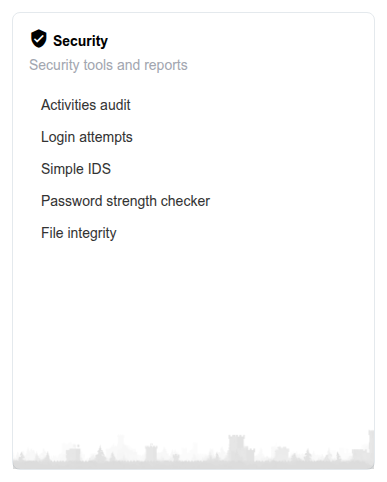
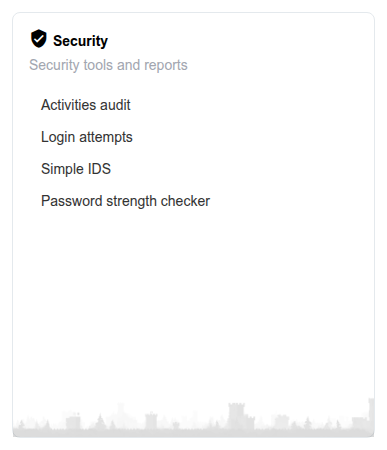
Documentation: Revert 2.1-only changes now targeting Chamilo 3.0
The Reporting-to-Analytics rename and the File Integrity (security)
feature were both planned for what was going to be Chamilo 2.1. That
work is now targeted at Chamilo 3.0 instead, so this branch reverts
both from the 2.x documentation:

- Renamed the "Analytics" chapter back to "Reporting", matching the
  actual 2.x dashboard label (admin-guide/analytics -> admin-guide/reporting,
  plus SUMMARY.md and cross-references).
- Removed the File Integrity page and all references to it from the
  Security chapter, the security guide, and SUMMARY.md, since it will
  never ship in a 2.x release. Cropped the Security block screenshot
  down to its actual four 2.x tools.

Changed region(s): [[0.093, 0.1867, 0.5581, 0.4978], [0.062, 0.0622, 0.4961, 0.1556]]

diff --git a/admin-guide/security/README.md b/admin-guide/security/README.md
@@ -2,9 +2,7 @@
 
 The **Security** block on the administration dashboard groups the platform's built-in security monitoring and auditing tools. It is separate from [Security Settings](../platform-settings/security-settings.md), which configures security *policy* (password rules, CAPTCHA, HTTP security headers, and so on) — this block gives you the *reports and tools* that watch the platform for suspicious activity and unwanted changes.
 
-![The Security block on the administration dashboard, listing Activities audit, Login attempts, Simple IDS, Password strength checker, and File integrity](/.gitbook/assets/admin-security-block.png)
-
-The block was introduced in Chamilo 2.0 with four tools and extended in Chamilo 2.1 with a fifth, **File integrity**.
+![The Security block on the administration dashboard, listing Activities audit, Login attempts, Simple IDS, and Password strength checker](/.gitbook/assets/admin-security-block.png)
 
 ## Accessing the Security Block
 
@@ -16,8 +14,7 @@ From the administration panel, the **Security** block appears alongside the othe
 * **[Login Attempts](login-attempts.md)** — Review failed and successful login attempts, with charts and a searchable log
 * **[Simple IDS](simple-ids.md)** — See requests flagged by Chamilo's built-in, lightweight intrusion detection system
 * **[Password Strength Checker](password-strength-checker.md)** — Scan active users for passwords that match a list of commonly used passwords
-* **[File Integrity](file-integrity.md)** *(new in Chamilo 2.1)* — Detect unexpected additions, modifications, deletions, or permission changes in the installed files
 
 ## Who Can Access It
 
-All five tools require **Portal Administrator** access. File integrity's scan, pause, and re-baseline actions additionally require **Global Administrator** access, and pausing alerts or establishing a new baseline requires re-entering your own password — see [File Integrity](file-integrity.md#actions) for details.
+All four tools require **Portal Administrator** access.

diff --git a/admin-guide/README.md b/admin-guide/README.md
@@ -11,11 +11,11 @@ As a Chamilo administrator, you manage:
 * **Courses and sessions** — Oversee course creation, manage the course catalog, and configure training sessions
 * **Platform** — Languages, portal news, the global agenda, and the Pages CMS tool
 * **Platform settings** — Configure portal behavior, security, performance, and feature availability
-* **Analytics** — Platform statistics, learning analytics, and corporate/HR reporting
+* **Reporting** — Platform statistics, learning analytics, and corporate/HR reporting
 * **Skills** — Define competency badges and link them to gradebook results
 * **System** — Server maintenance tools, self-update, storage inspection, and branding
 * **Rooms** — Manage physical sites and bookable training rooms
-* **Security** — Monitor login attempts, review flagged intrusion attempts, check password strength, and verify file integrity
+* **Security** — Monitor login attempts, review flagged intrusion attempts, and check password strength
 * **Plugins** — Install, configure, and manage platform extensions
 * **Authentication** — Set up external login systems (OAuth2, LDAP, CAS, SCIM)
 * **Integrations** — Connect Chamilo to video conferencing, LTI tools, AI providers, and more
@@ -30,7 +30,7 @@ As a Chamilo administrator, you manage:
 5. **Sessions** — Organizing time-bound training cohorts
 6. **Platform** — Languages, portal news, the global agenda, and the Pages CMS tool
 7. **Platform Settings** — Configuring every aspect of the platform
-8. **Analytics** — Statistics, learning analytics, and corporate/HR reporting
+8. **Reporting** — Statistics, learning analytics, and corporate/HR reporting
 9. **Skills** — Competency badges and gradebook-driven awards
 10. **System** — Server tools, self-update, storage inspection, and branding
 11. **Rooms** — Branches and bookable training rooms

diff --git a/admin-guide/appendix/security-guide.md b/admin-guide/appendix/security-guide.md
@@ -2,7 +2,7 @@
 
 This guide covers security best practices for running a Chamilo 2.0 platform in production. Security is a shared responsibility between the platform software, your server configuration, and ongoing operational practices.
 
-For the built-in monitoring and auditing tools referenced throughout this guide (login attempt logs, intrusion detection, password strength scans, and file integrity checks), see the [Security](../security/README.md) chapter.
+For the built-in monitoring and auditing tools referenced throughout this guide (login attempt logs, intrusion detection, and password strength scans), see the [Security](../security/README.md) chapter.
 
 ## Keep Chamilo Updated
 
@@ -153,7 +153,7 @@ See [Backups](../maintenance/backups.md) for detailed instructions.
 * Set up server monitoring (CPU, memory, disk) to detect resource exhaustion.
 * Configure alerts for repeated authentication failures.
 * Periodically review user accounts for unauthorized or dormant accounts.
-* Schedule [File Integrity](../security/file-integrity.md) checks (Chamilo 2.1+) in cron to be notified when installed files change unexpectedly, and run the [Password Strength Checker](../security/password-strength-checker.md) periodically, especially after bulk user imports.
+* Run the [Password Strength Checker](../security/password-strength-checker.md) periodically, especially after bulk user imports.
 
 ## Checklist
 
@@ -171,6 +171,5 @@ Use this checklist when deploying or auditing a Chamilo installation:
 - [ ] Session cookie flags set (secure, httponly, samesite)
 - [ ] Database user has minimal privileges
 - [ ] Automated backups scheduled and tested
-- [ ] File integrity baseline established and scan scheduled in cron (Chamilo 2.1+)
 - [ ] Log monitoring in place
 - [ ] Chamilo version is current

diff --git a/admin-guide/reporting/corporate-reports.md b/admin-guide/reporting/corporate-reports.md
@@ -1,0 +1,19 @@
+# Corporate Reports
+
+This page covers four related dashboard entries aimed at organizational reporting rather than day-to-day teaching: quarterly summaries, teacher workload, HR-oriented course reporting, and bulk document exports.
+
+## Quarterly Report
+
+**Reporting > Quarterly report** presents a set of summary cards for a given quarter: users registered and connected, courses that exist versus courses actually used, hours of training delivered, certificates generated, sessions by duration, and total disk usage (disk usage only appears on the main portal in a multi-URL setup). Each card loads independently, so the page stays responsive even on a platform with a lot of history.
+
+## Teachers Time Report
+
+**Reporting > Teachers time report** lets you filter by course, session, teacher, and date range to see how much time each teacher has spent. It's meant to track teaching workload and hours — filter it down to a single course or session, or leave it unfiltered for a platform-wide view.
+
+## Corporate Report
+
+**Reporting > Corporate report** is built specifically for HR audiences — it's the one report in this chapter also available to the **Human Resources Manager** and **Student Boss** roles, not just administrators. It lists, per course and per user: e-mail address, hours spent, whether a certificate was generated, completed learning paths, and course progress. It can be scoped to a single session or left platform-wide.
+
+## Special Exports
+
+**Reporting > Special exports** is a bulk-export tool, not a report: it zips up course documents platform-wide, or for a selected subset of courses (including their session-specific documents). This is a heavy operation on a platform with a lot of course content — it's best run outside peak hours.

diff --git a/admin-guide/reporting/README.md b/admin-guide/reporting/README.md
@@ -1,0 +1,21 @@
+# Reporting
+
+The **Reporting** block on the administration dashboard groups platform-wide statistics, learning analytics, corporate/HR reporting, and bulk export tools. This is a different tool from [Tracking Settings](../platform-settings/tracking-settings.md), the separate settings category that controls what gets recorded rather than the reports themselves.
+
+![The Reporting block on the administration dashboard, listing Global statistics, Reports catalog, Learning analytics, Quarterly report, Teachers time report, Corporate report, Special exports, and Tickets](/.gitbook/assets/admin-reporting-block.png)
+
+## Accessing Reporting
+
+From the administration panel, the **Reporting** block appears alongside the other dashboard blocks. Click any of its links to open the corresponding report.
+
+## What's in the Block
+
+* **[Global Statistics](global-statistics.md)** — Platform-wide statistics: courses, users, logins, sessions, and disk usage
+* **[Reports Catalog](reports-catalog.md)** — Browse every registered report, who can access it, and why
+* **[Learning Analytics](learning-analytics.md)** — The classic tracking dashboard: user, course, and session drill-downs with time-spent and score averages
+* **[Corporate Reports](corporate-reports.md)** — Quarterly summaries, teacher time tracking, and HR-oriented course/user reporting
+* **[Tickets](tickets.md)** — Jump straight to the support ticket list
+
+## Who Can Access It
+
+Most of these reports require **Portal Administrator** access. The Corporate Report is the exception — it is also open to **Human Resources Manager** and **Student Boss** roles, since it's built for that audience specifically.

diff --git a/SUMMARY.md b/SUMMARY.md
@@ -125,12 +125,12 @@
     * [User Profile](admin-guide/platform-settings/profile-settings.md)
     * [Web Services](admin-guide/platform-settings/webservice-settings.md)
     * [Workflows](admin-guide/platform-settings/workflows-settings.md)
-  * [Analytics](admin-guide/analytics/README.md)
-    * [Global Statistics](admin-guide/analytics/global-statistics.md)
-    * [Reports Catalog](admin-guide/analytics/reports-catalog.md)
-    * [Learning Analytics](admin-guide/analytics/learning-analytics.md)
-    * [Corporate Reports](admin-guide/analytics/corporate-reports.md)
-    * [Tickets](admin-guide/analytics/tickets.md)
+  * [Reporting](admin-guide/reporting/README.md)
+    * [Global Statistics](admin-guide/reporting/global-statistics.md)
+    * [Reports Catalog](admin-guide/reporting/reports-catalog.md)
+    * [Learning Analytics](admin-guide/reporting/learning-analytics.md)
+    * [Corporate Reports](admin-guide/reporting/corporate-reports.md)
+    * [Tickets](admin-guide/reporting/tickets.md)
   * [Skills](admin-guide/skills/README.md)
     * [Managing Skills](admin-guide/skills/managing-skills.md)
     * [Skills Wheel](admin-guide/skills/skills-wheel.md)
@@ -150,7 +150,6 @@
     * [Login Attempts](admin-guide/security/login-attempts.md)
     * [Simple IDS](admin-guide/security/simple-ids.md)
     * [Password Strength Checker](admin-guide/security/password-strength-checker.md)
-    * [File Integrity](admin-guide/security/file-integrity.md)
   * [Plugins](admin-guide/plugins/README.md)
     * [Managing Plugins](admin-guide/plugins/managing-plugins.md)
   * [Health Check](admin-guide/health-check.md)

diff --git a/admin-guide/getting-started/admin-interface-overview.md b/admin-guide/getting-started/admin-interface-overview.md
@@ -37,9 +37,9 @@ See the [Sessions](../sessions/README.md) chapter for details.
 
 * **Configuration settings**, **Languages**, **Portal news**, **Global agenda**, **Pages**, **Extra fields**, **Mail templates**, **Contact form categories**, and more — see the [Platform](../platform/README.md) chapter for details. The "Configuration settings" link is the entry point to the separate [Platform Settings](../platform-settings/README.md) chapter.
 
-### Analytics
+### Reporting
 
-* **Global statistics**, **Reports catalog**, **Learning analytics**, **Quarterly report**, **Teachers time report**, **Corporate report**, **Special exports**, **Tickets** — Platform statistics and reporting; see the [Analytics](../analytics/README.md) chapter for details
+* **Global statistics**, **Reports catalog**, **Learning analytics**, **Quarterly report**, **Teachers time report**, **Corporate report**, **Special exports**, **Tickets** — Platform statistics and reporting; see the [Reporting](../reporting/README.md) chapter for details
 
 ### Skills
 
@@ -55,7 +55,7 @@ See the [Sessions](../sessions/README.md) chapter for details.
 
 ### Security
 
-* **Activities audit**, **Login attempts**, **Simple IDS**, **Password strength checker**, **File integrity** — Security monitoring and auditing tools; see the [Security](../security/README.md) chapter for details
+* **Activities audit**, **Login attempts**, **Simple IDS**, **Password strength checker** — Security monitoring and auditing tools; see the [Security](../security/README.md) chapter for details
 
 ### Plugins
 

diff --git a/admin-guide/platform-settings/security-settings.md b/admin-guide/platform-settings/security-settings.md
@@ -2,7 +2,7 @@
 
 Login protection, password policy, content security headers, two-factor authentication, and the lightweight intrusion detection system.
 
-This page covers security *policy*. For the monitoring tools that watch the platform using this policy (login attempt logs, intrusion detection events, password strength scans, and file integrity checks), see [Security](../security/README.md).
+This page covers security *policy*. For the monitoring tools that watch the platform using this policy (login attempt logs, intrusion detection events, and password strength scans), see [Security](../security/README.md).
 
 Access these settings under **Administration > Configuration settings > Security**. This category contains **31 settings**, listed below with the title and comment shipped in the platform's settings fixtures (`SettingsCurrentFixtures.php`).
 

diff --git a/admin-guide/reporting/learning-analytics.md b/admin-guide/reporting/learning-analytics.md
@@ -1,10 +1,10 @@
 # Learning Analytics
 
-Learning Analytics is Chamilo's classic tracking dashboard (historically known as "MySpace" or "Reporting"). It's the main drill-down tool for following learner, course, and session performance.
+Learning Analytics is Chamilo's classic tracking dashboard (historically known as "MySpace"). It's the main drill-down tool for following learner, course, and session performance.
 
 ## Accessing Learning Analytics
 
-From the administration panel, click **Analytics > Learning analytics**.
+From the administration panel, click **Reporting > Learning analytics**.
 
 ## What It Shows
 

diff --git a/admin-guide/reporting/tickets.md b/admin-guide/reporting/tickets.md
@@ -1,10 +1,10 @@
 # Tickets
 
-The **Tickets** entry in the Analytics block is a shortcut into Chamilo's support ticket system — it opens directly on the ticket list, not a settings page.
+The **Tickets** entry in the Reporting block is a shortcut into Chamilo's support ticket system — it opens directly on the ticket list, not a settings page.
 
 ## Accessing Tickets
 
-From the administration panel, click **Analytics > Tickets**.
+From the administration panel, click **Reporting > Tickets**.
 
 ## What It Shows
 

diff --git a/admin-guide/reporting/global-statistics.md b/admin-guide/reporting/global-statistics.md
@@ -4,7 +4,7 @@ Global Statistics is the platform statistics hub — a menu of platform-wide rep
 
 ## Accessing Global Statistics
 
-From the administration panel, click **Analytics > Global statistics**.
+From the administration panel, click **Reporting > Global statistics**.
 
 ## How It's Organized
 

diff --git a/admin-guide/reporting/reports-catalog.md b/admin-guide/reporting/reports-catalog.md
@@ -4,7 +4,7 @@ The Reports Catalog isn't a report itself — it's a directory of every report r
 
 ## Accessing the Reports Catalog
 
-From the administration panel, click **Analytics > Reports catalog**.
+From the administration panel, click **Reporting > Reports catalog**.
 
 ## What It Shows
 
